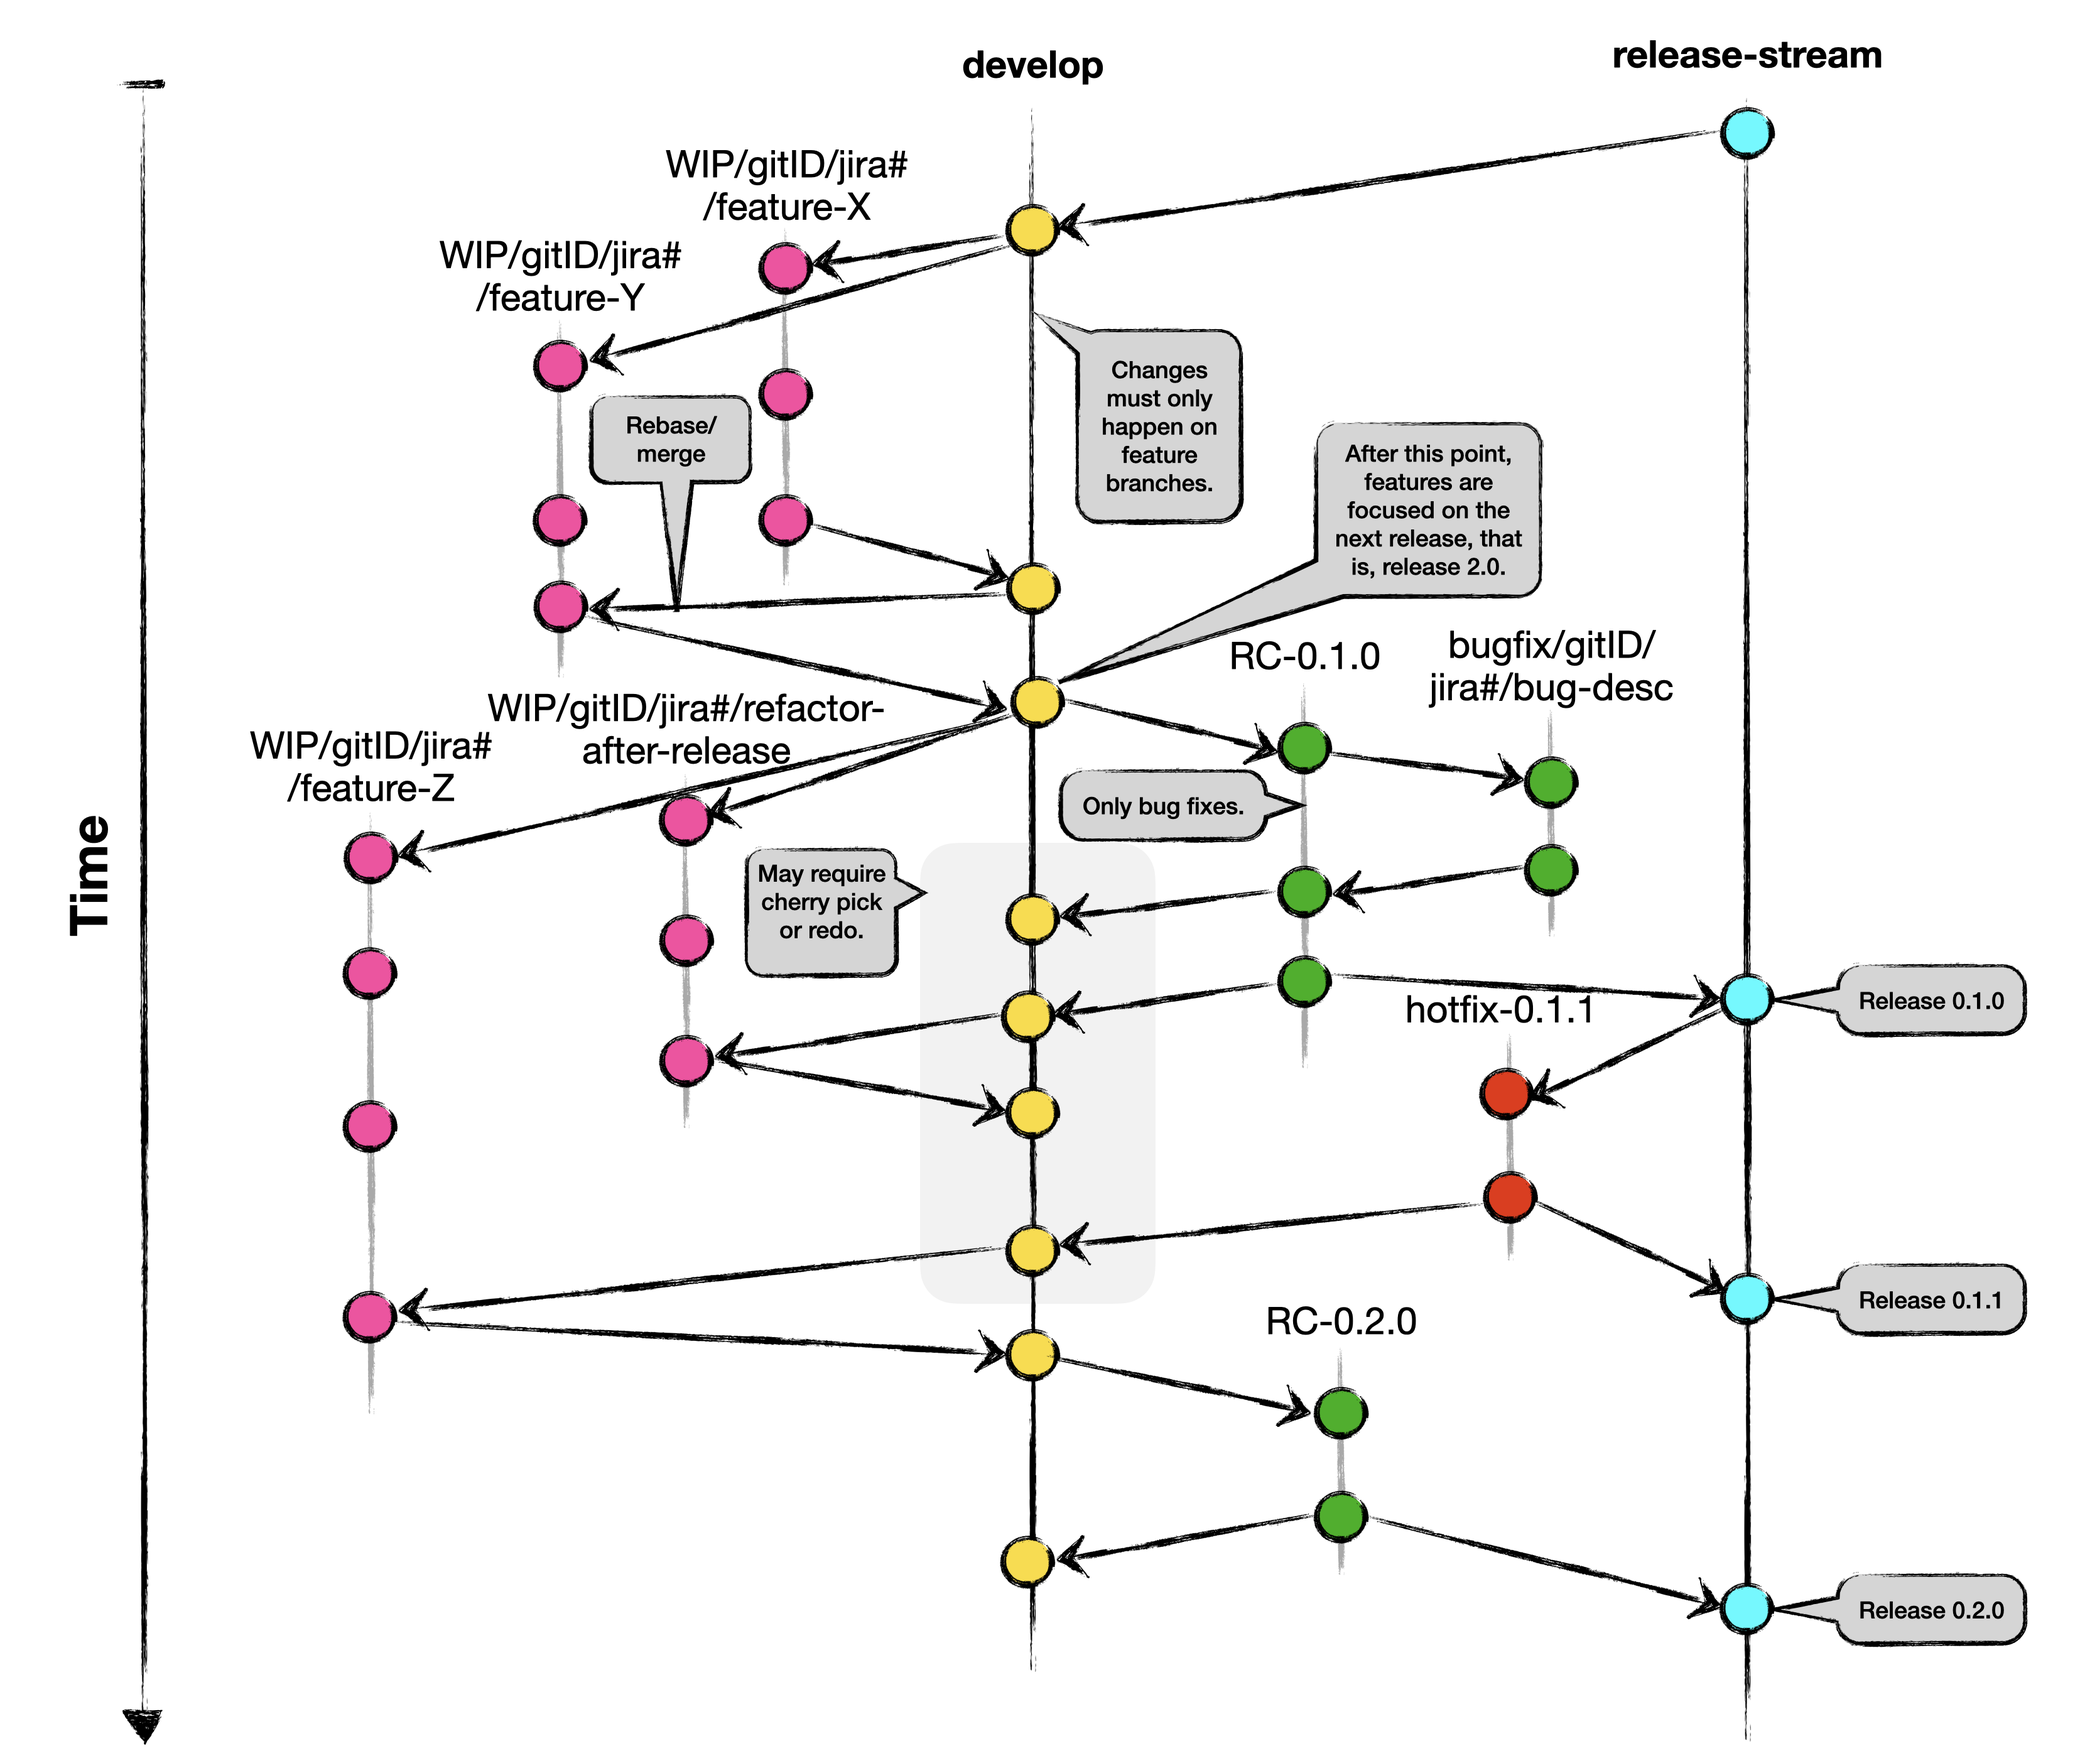
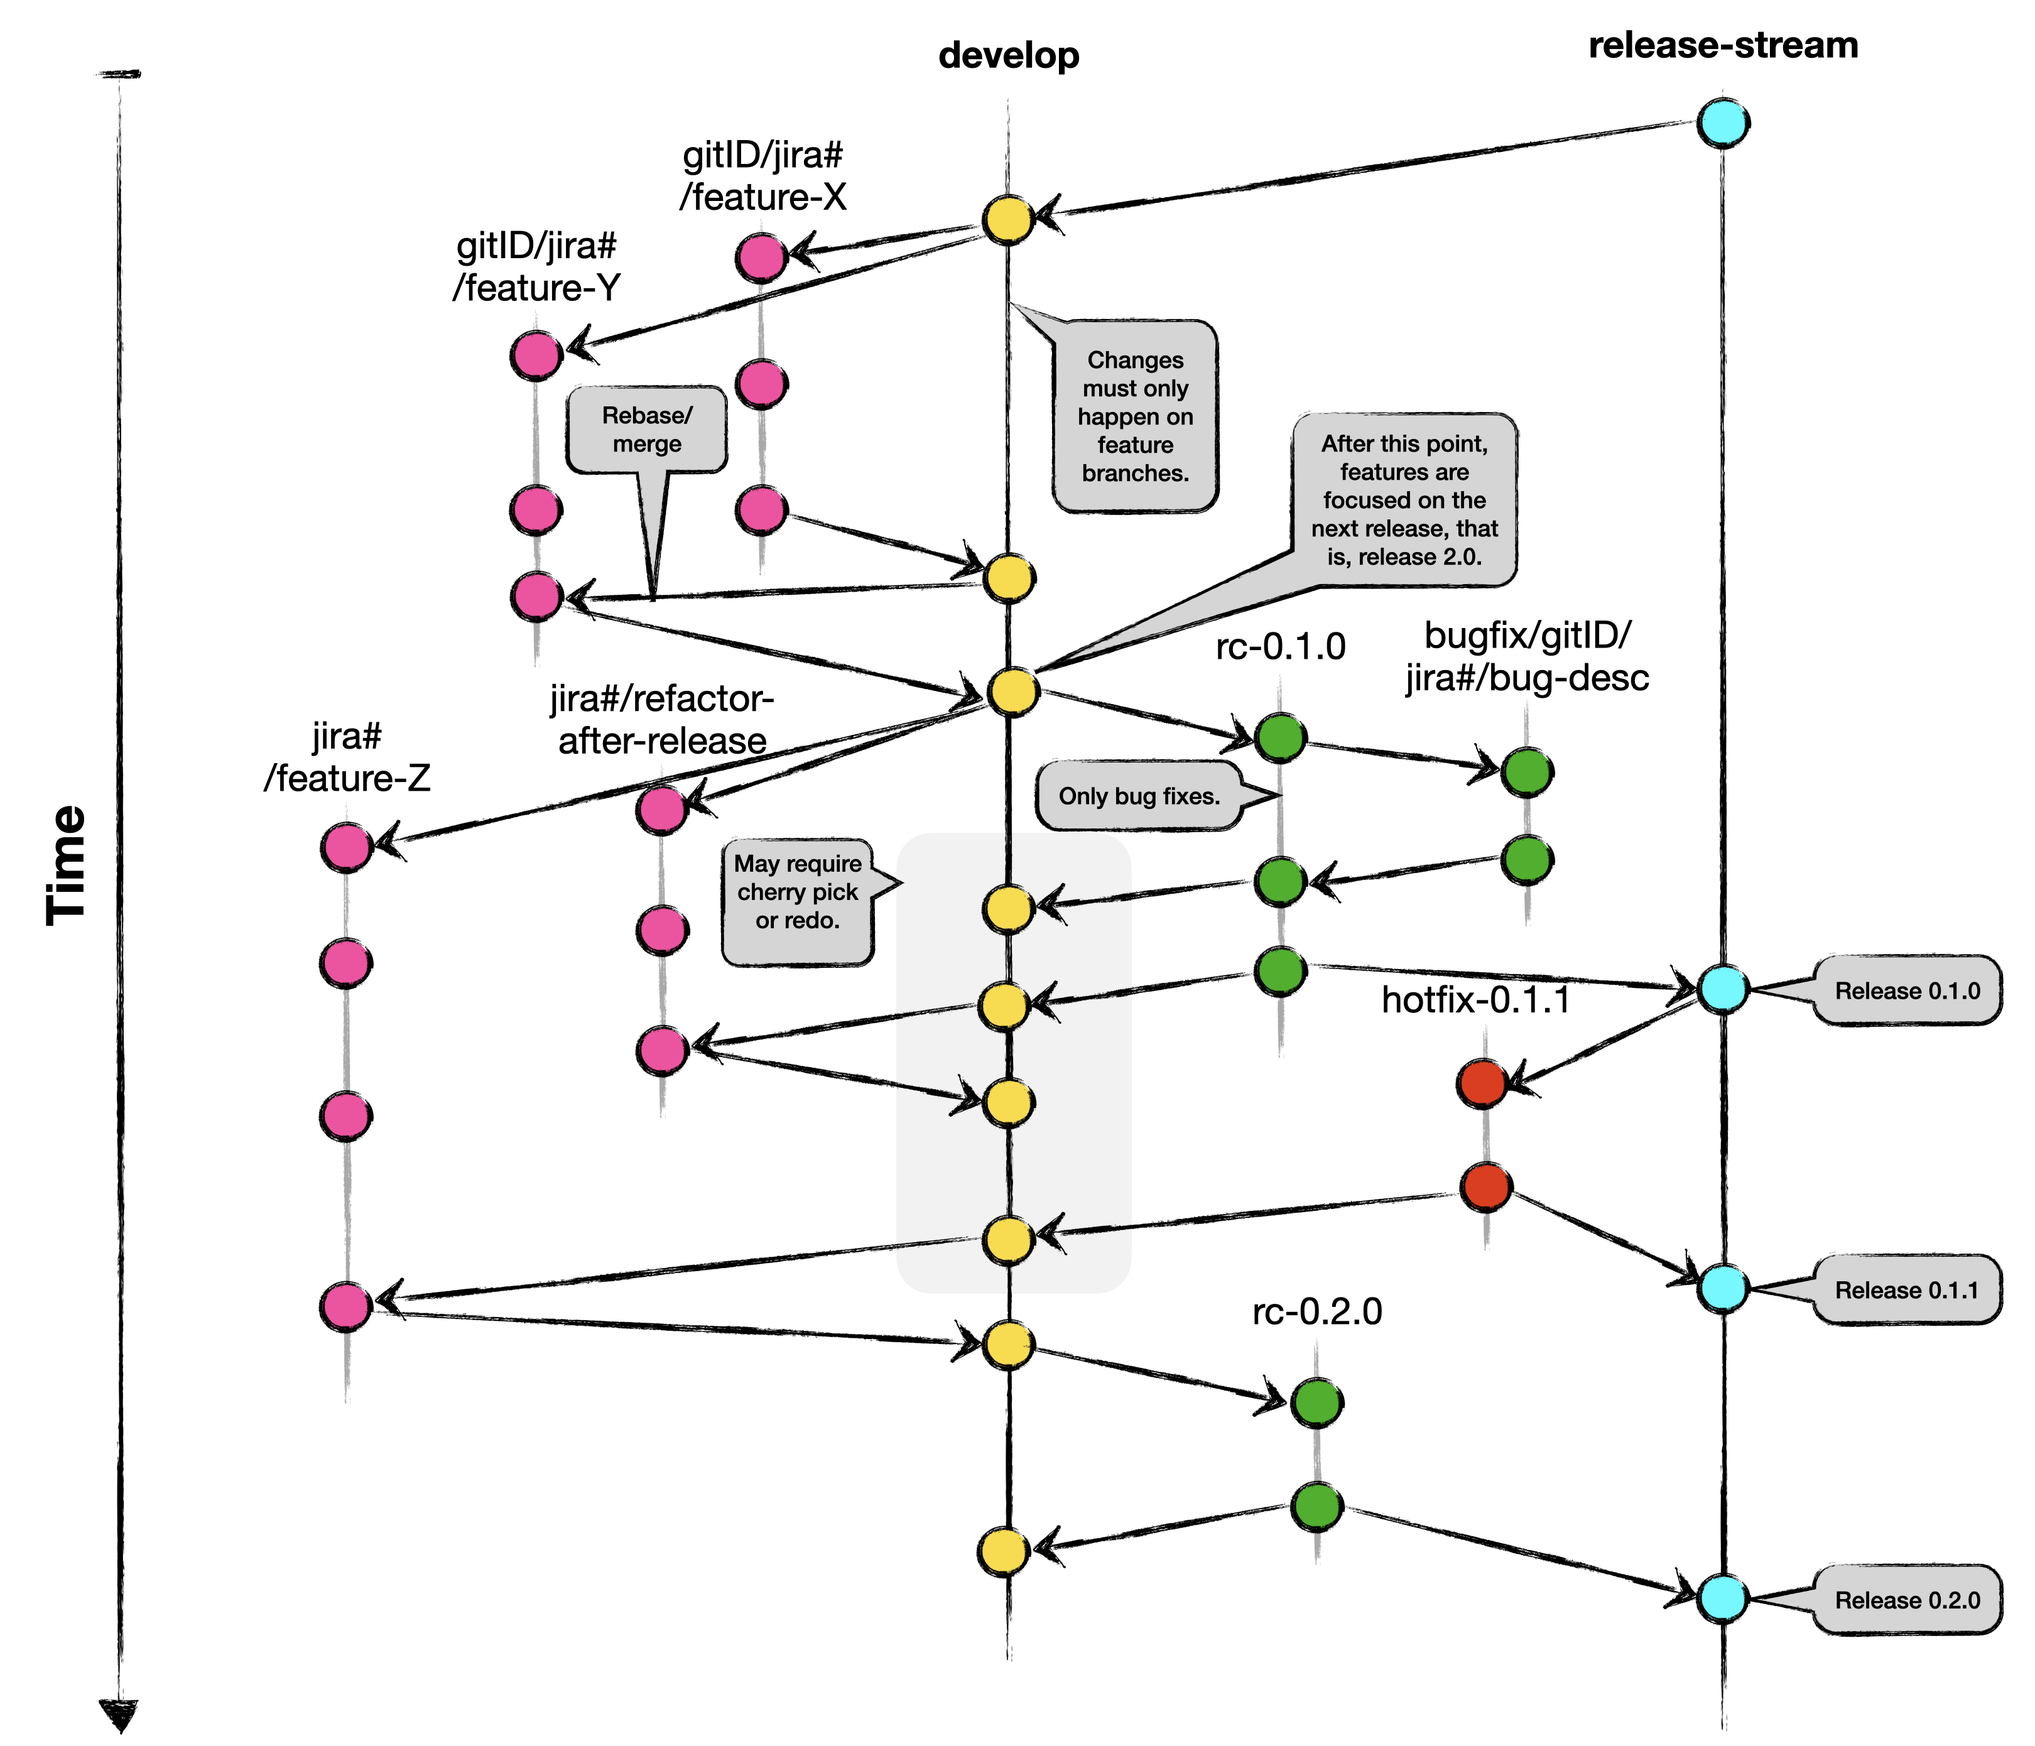
applied some reviews

diff --git a/adrs/0014-git-workflow.md b/adrs/0014-git-workflow.md
@@ -61,14 +61,14 @@ There should be naming conventions and procedures around creating and merging th
 
 #### Feature Branches
 
-* Naming convention: use `WIP/git-ID/jira-ticket-number/feature-X` for adding a new feature where `git-ID` is the engineer's GitHub ID, `jira-ticket-number` is Jira ticket's number if it exists, `feature-X` is a summary of the feature. For example, `WIP/pataei/PM-7005/relational-ops`. If a branch is more experimental, exchange `EXP` for `WIP`. If a branch is bug fix exchange `bugfix` for `WIP`.
+* Naming convention: use `jira-ticket-number/feature-X` for adding a new feature where `jira-ticket-number` is Jira ticket's number if it exists and `feature-X` is a summary of the feature. If there are multiple branches addressing the same feature prefix the branch name with your GitHub ID, that is, `git-ID/jira-ticket-number/feature-X`. If a branch is more experimental or fixes a bug prefix the branch name with `exp` and `bugfix`, respectively.
 * Branch from: `develop`.
 * Check before merge: if `develop` needs to be merged or rebased back into your feature branch.
 * Merge into: `develop`.
 
 #### Release-Candidate Branches
 
-* Naming convention: use `RC-x.y.z` for a release candidate branch for version `x.y.z`. Once this branch is created, any development on the `develop` branch is aimed for the release after this one. On this branch only bug fixes can occur. For a bug fix, a new branch is created from the `RC-x.y.z` branch which follows the naming convention explained above (for example, `bugfix/pataei/PM-2345/bug-description`) and after approval of the PR, such a branch is merged back into the `RC-x.y.z`. The [versioning scheme explained on Confluence](https://input-output.atlassian.net/wiki/spaces/MN/pages/3378151425/Versioning) should be followed for as a guideline for clear versioning.
+* Naming convention: use `rc-x.y.z` for a release candidate branch for version `x.y.z`. Once this branch is created, any development on the `develop` branch is aimed for the release after this one. On this branch only bug fixes can occur. For a bug fix, a new branch is created from the `rc-x.y.z` branch which follows the naming convention explained above (for example, `bugfix/pataei/PM-2345/bug-description`) and after approval of the PR, such a branch is merged back into the `rc-x.y.z`. The [versioning scheme explained on Confluence](https://input-output.atlassian.net/wiki/spaces/MN/pages/3378151425/Versioning) should be followed for as a guideline for clear versioning.
 * Branch from: `develop`.
 * Merge into: `release-stream`.
 * Note: if bug fixes occur on this branch they must be merged back into the `develop` branch. Once this happens, one might need to cherry pick or even redo some of the changes in such a merge.
@@ -99,6 +99,8 @@ I found [Git workflow on Midnight's confluence page](https://input-output.atlass
 
 Questions to consider when picking a git workflow model:
 
+* How do environments for testing play a role in this model?
+* How do tags play a role in this model?
 * Will we support multiple version of Midnight and roll backs to previous versions?
 * Once we have mainnet and testnet do we need to keep separate release branches for each?
 * This proposal gets rid of the `main` branch. However, if there is strong incentive to have a branch named `main` we can alternatively rename the `develop` branch to `main` for most of the Midnight repositories, where the outputs are binary artifacts, rather than the repository itself. For repositories that are consumed primarily by cloning (i.e., the output is the repository itself), rename the `release-stream` branch to `main`.
